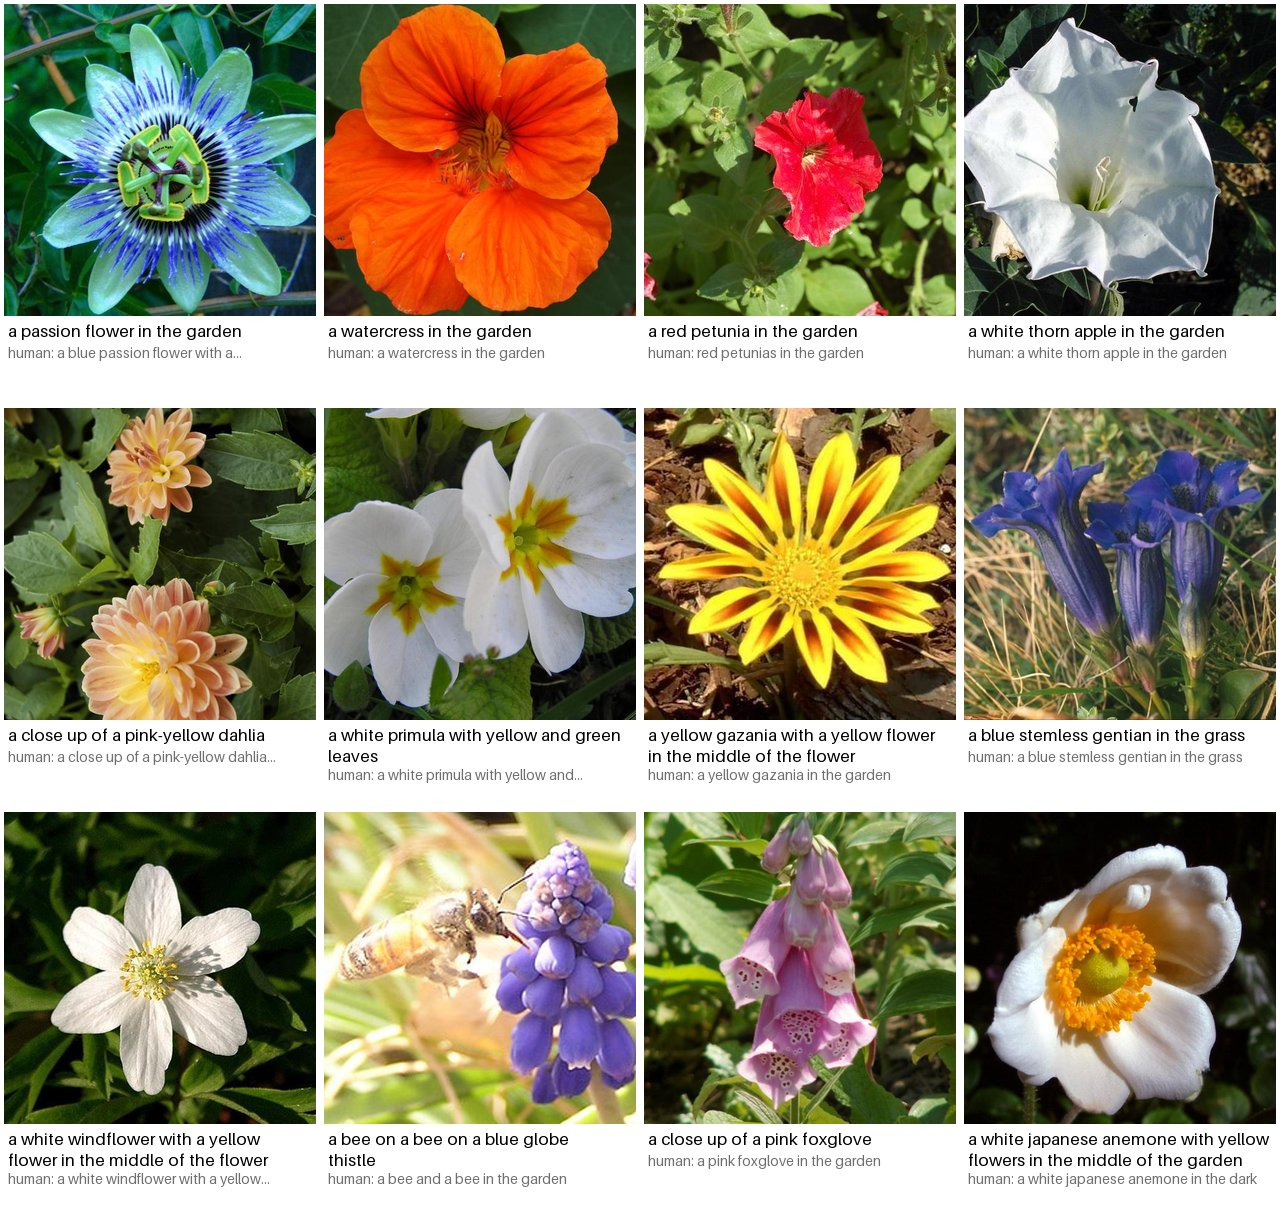
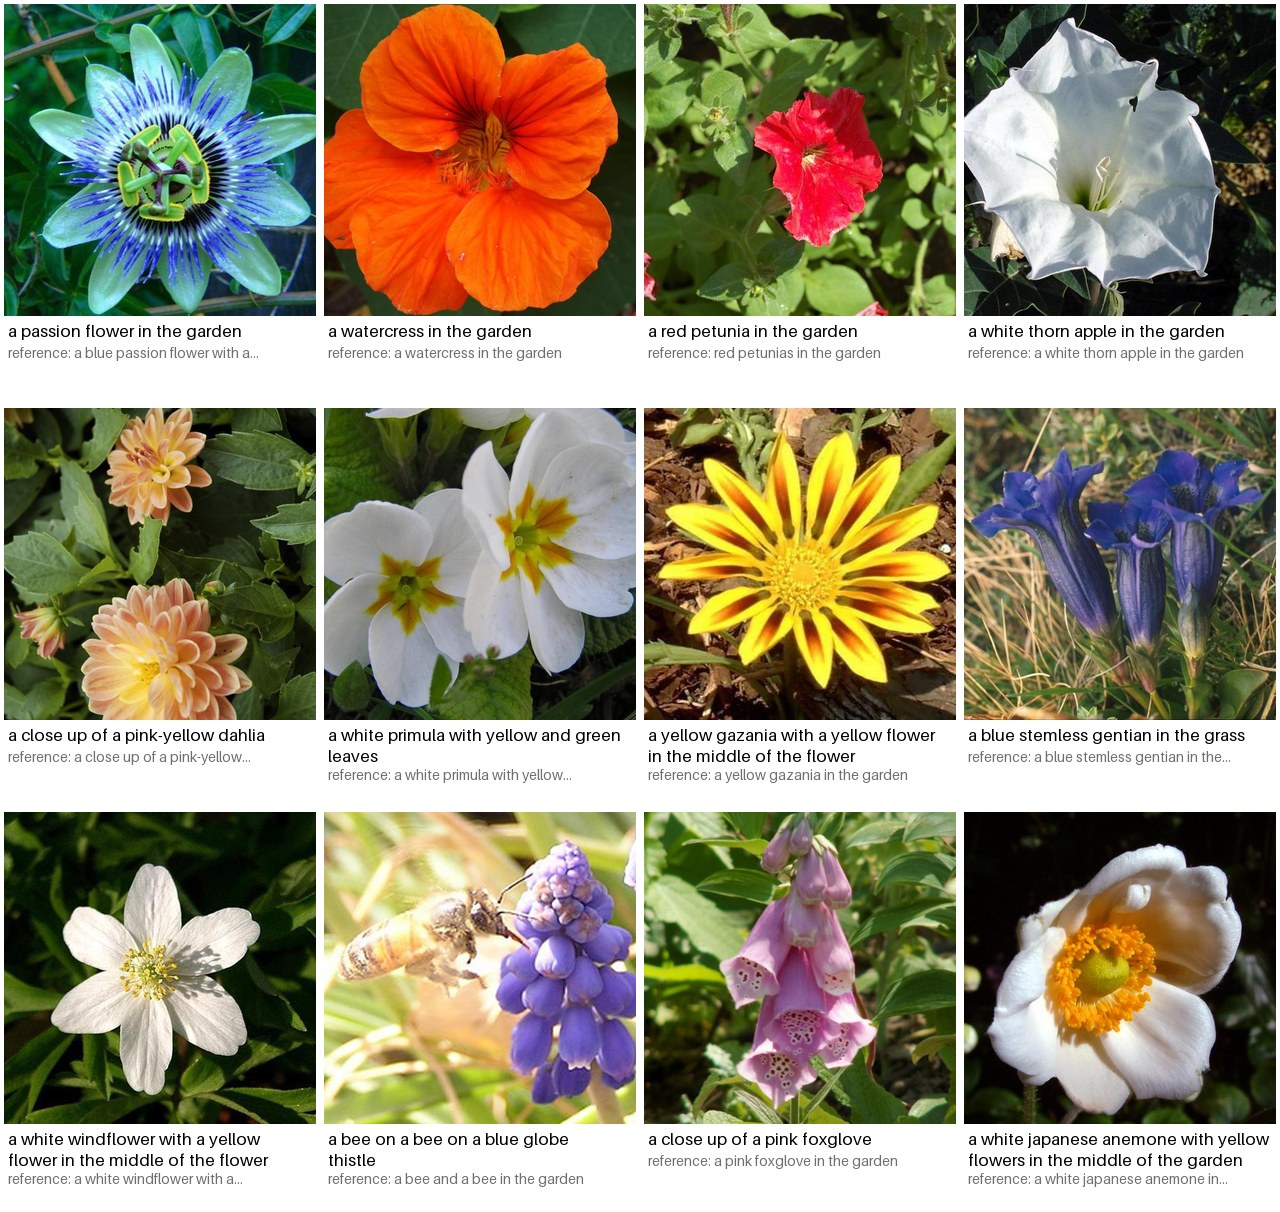
Show real input/output examples of the trained models
Add cap-evaluate --examples: a Markdown table of test images (thumbnail,
model caption, reference caption, exact match), spread evenly over the
split. Generated for the shapes and flowers models and shown in the README.

diff --git a/src/bia_captioner/evaluate.py b/src/bia_captioner/evaluate.py
@@ -3,7 +3,9 @@
     python -m bia_captioner.evaluate --checkpoint checkpoints/run/best.pt --split test
 
 Each image is captioned once (beam search by default) and compared with all
-of its human captions. Optionally writes every prediction to a JSON file.
+of its reference captions. Optionally writes every prediction to a JSON file, a
+captioned image grid (--gallery) and a Markdown table of examples with one
+thumbnail per image (--examples).
 """
 
 from __future__ import annotations
@@ -99,7 +101,7 @@ def save_gallery(
     columns: int = 4,
     tile: int = 320,
 ) -> None:
-    """Grid of images with the model's caption (and one human caption) under each.
+    """Grid of images with the model's caption (and its first reference caption) under each.
 
     Made to be shared: a README, a slide or a post.
     """
@@ -118,10 +120,47 @@ def save_gallery(
         sheet.paste(square.resize((tile - 8, tile - 8), Image.LANCZOS), (x + 4, y + 4))
         lines = textwrap.wrap(prediction, chars)[:3]
         draw.multiline_text((x + 8, y + tile), "\n".join(lines), fill="black", font=font)
-        human = textwrap.shorten("human: " + refs[0], width=int(chars * 1.2), placeholder="...")
-        draw.text((x + 8, y + tile + 18 * len(lines) + 6), human, fill=(110, 110, 110), font=small)
+        reference = textwrap.shorten(
+            "reference: " + refs[0], width=int(chars * 1.2), placeholder="..."
+        )
+        draw.text(
+            (x + 8, y + tile + 18 * len(lines) + 6), reference, fill=(110, 110, 110), font=small
+        )
     path.parent.mkdir(parents=True, exist_ok=True)
     sheet.save(path)
+
+
+def save_examples(
+    images: Sequence[Image.Image],
+    predictions: Sequence[str],
+    references: Sequence[Sequence[str]],
+    directory: Path,
+    title: str = "Examples",
+    thumbnail: int = 160,
+) -> Path:
+    """Write `directory/NN.jpg` thumbnails and a `directory/README.md` table.
+
+    One row per image: the image, the model's caption, the dataset's first
+    reference caption and whether the model matched one of the references word
+    for word.
+    """
+    directory.mkdir(parents=True, exist_ok=True)
+    rows = [
+        "| image | model caption | reference caption | exact |",
+        "|:---:|---|---|:---:|",
+    ]
+    for i, (image, prediction, refs) in enumerate(zip(images, predictions, references)):
+        name = f"{i:02d}.jpg"
+        side = min(image.size)  # centre square crop, like the gallery
+        left, top = (image.width - side) // 2, (image.height - side) // 2
+        square = image.convert("RGB").crop((left, top, left + side, top + side))
+        square.resize((thumbnail, thumbnail), Image.LANCZOS).save(directory / name, quality=90)
+        exact = "yes" if exact_match([prediction], [refs]) == 1.0 else "no"
+        cells = [f'<img src="{name}" width="{thumbnail}">', prediction, refs[0], exact]
+        rows.append("| " + " | ".join(c.replace("|", "\\|") for c in cells) + " |")
+    path = directory / "README.md"
+    path.write_text(f"# {title}\n\n" + "\n".join(rows) + "\n")
+    return path
 
 
 def build_parser() -> argparse.ArgumentParser:
@@ -137,6 +176,11 @@ def build_parser() -> argparse.ArgumentParser:
     p.add_argument("--output", type=Path, default=None, help="write scores + predictions (JSON)")
     p.add_argument("--gallery", type=Path, default=None, help="save a captioned image grid (PNG)")
     p.add_argument("--gallery-size", type=int, default=12, help="images in the gallery")
+    p.add_argument(
+        "--examples", type=Path, default=None,
+        help="write a Markdown table of examples (thumbnail, model and reference caption) to this folder",
+    )  # fmt: skip
+    p.add_argument("--examples-size", type=int, default=8, help="images in the examples table")
     p.add_argument(
         "--shuffle-images", action="store_true",
         help="sanity check: caption each image from another image's pixels (scores must drop)",
@@ -191,6 +235,16 @@ def run(argv: Sequence[str] | None = None, dataset_loader=None) -> dict[str, flo
             args.gallery,
         )
         logger.info("wrote %s", args.gallery)
+    if args.examples is not None:
+        picks = spread_indices(len(dataset), args.examples_size)
+        path = save_examples(
+            [dataset.image(i) for i in picks],
+            [predictions[i] for i in picks],
+            [references[i] for i in picks],
+            args.examples,
+            title=f"{data_config.dataset_id}: {args.split} examples",
+        )
+        logger.info("wrote %s", path)
     return scores
 
 

diff --git a/notebooks/build_notebook.py b/notebooks/build_notebook.py
@@ -414,18 +414,22 @@ plt.show()
 """)
 
 md("""
-### 7.2 BLEU on the test split, and a shareable gallery
+### 7.2 BLEU on the test split, a shareable gallery and an examples table
 
 The test split was never used for training or model selection. Beam size 3.
-`gallery.png` shows test photos with the model's captions (and one human
-caption in grey): ready for a README or a post.
+`gallery.png` shows test photos with the model's captions (and the reference
+caption in grey): ready for a README or a post. `examples/README.md` is a
+table of real inputs and outputs (thumbnail, model caption, reference caption,
+exact match), ready to commit to GitHub. Both use test images spread evenly
+over the split, not hand-picked ones.
 """)
 code("""
 from bia_captioner import evaluate
 
 test_args = ["--checkpoint", str(OUTPUT_DIR / T.BEST_CHECKPOINT), "--split", "test",
              "--beam-size", "3", "--output", str(OUTPUT_DIR / "test_predictions.json"),
-             "--gallery", str(OUTPUT_DIR / "gallery.png")]
+             "--gallery", str(OUTPUT_DIR / "gallery.png"),
+             "--examples", str(OUTPUT_DIR / "examples")]
 if SMOKE_TEST:
     test_args += ["--limit", "16"]
 test_scores = evaluate.run(test_args)
@@ -433,14 +437,15 @@ test_scores = evaluate.run(test_args)
 from IPython.display import Image as ShowImage, display
 
 display(ShowImage(filename=str(OUTPUT_DIR / "gallery.png")))  # ready to share
+print((OUTPUT_DIR / "examples" / "README.md").read_text())
 """)
 
 # ---------------------------------------------------------------------------
 md("""
 ## 8. Download the trained model
 
-Zips `best.pt`, the tokenizer, the metrics and the test predictions
-(`last.pt` is left out: it is only needed to resume). Use it with the repo:
+Zips `best.pt`, the tokenizer, the metrics, the test predictions, the
+gallery and the examples table (`last.pt` is left out: it is only needed to resume). Use it with the repo:
 
 ```bash
 unzip bia-captioner-run.zip -d checkpoints/run
@@ -458,6 +463,8 @@ with tempfile.TemporaryDirectory() as tmp:
         if (OUTPUT_DIR / name).exists():
             shutil.copy(OUTPUT_DIR / name, bundle / name)
     shutil.copytree(OUTPUT_DIR / "tokenizer", bundle / "tokenizer")
+    if (OUTPUT_DIR / "examples").exists():
+        shutil.copytree(OUTPUT_DIR / "examples", bundle / "examples")
     archive = shutil.make_archive(str(OUTPUT_DIR.parent / "bia-captioner-run"), "zip", bundle)
 print("created", archive)
 

diff --git a/tests/test_generate.py b/tests/test_generate.py
@@ -143,6 +143,37 @@ def test_evaluate_writes_a_gallery(tmp_path: Path) -> None:
     assert image.size[0] == 4 * 320 and image.size[1] > 320  # one row of 4 tiles + text
 
 
+def test_evaluate_writes_an_examples_table(tmp_path: Path) -> None:
+    path, _ = write_checkpoint(tmp_path / "run")
+    rows = [{"image": Image.new("RGB", (60, 40), c), "original_alt_text": ["a dog | runs"]}
+            for c in ("white", "black", "red")]  # fmt: skip
+    examples = tmp_path / "examples"
+    evaluate.run(
+        ["--checkpoint", str(path), "--device", "cpu", "--num-workers", "0", "--beam-size", "1",
+         "--examples", str(examples), "--examples-size", "2"],
+        dataset_loader=lambda *a, **k: FakeSplit(rows),
+    )  # fmt: skip
+    table = (examples / "README.md").read_text().splitlines()
+    assert table[0].startswith("# ")
+    body = [line for line in table if line.startswith("| <img")]
+    assert len(body) == 2  # first and last image of the split
+    assert '<img src="00.jpg"' in body[0] and '<img src="01.jpg"' in body[1]
+    assert "a dog \\| runs" in body[0]  # a "|" in a caption must not break the table
+    assert body[0].endswith("| no |") or body[0].endswith("| yes |")
+    assert Image.open(examples / "00.jpg").size == (160, 160)
+
+
+def test_save_examples_marks_exact_matches(tmp_path: Path) -> None:
+    from bia_captioner.evaluate import save_examples
+
+    images = [Image.new("RGB", (32, 32), "red"), Image.new("RGB", (32, 32), "blue")]
+    path = save_examples(
+        images, ["a red square", "a red square"], [["a red square"], ["a blue square"]], tmp_path
+    )
+    rows = [line for line in path.read_text().splitlines() if line.startswith("| <img")]
+    assert rows[0].endswith("| yes |") and rows[1].endswith("| no |")
+
+
 def test_shuffled_order_never_keeps_an_image_and_is_fixed() -> None:
     from bia_captioner.evaluate import shuffled_order
 

diff --git a/README.md b/README.md
@@ -96,11 +96,55 @@ For real-world scale (Conceptual Captions 3M / 12M, nocaps, TextCaps,
 VizWiz) and for using any other Hugging Face dataset, see
 [docs/datasets.md](docs/datasets.md).
 
+## Real examples: input → output
+
+Real outputs of the two models trained on a laptop CPU, on **test images
+they never saw**. The images are spread evenly over the test split (not
+hand-picked); `cap-evaluate --examples` regenerates these tables
+([docs/inference.md](docs/inference.md#evaluate-on-the-test-split)).
+
+**Synthetic shapes**: BIA-ViT encoder trained from scratch, 8 epochs (~2 h).
+88% of all 500 test captions are exactly right; most of the remaining errors
+are a small circle called a square.
+
+| image | model caption | reference caption | exact |
+|:---:|---|---|:---:|
+| <img src="docs/examples/shapes/00.jpg" width="110"> | a big yellow circle on the left and a small red circle on the right | a big yellow circle on the left and a small red circle on the right | yes |
+| <img src="docs/examples/shapes/01.jpg" width="110"> | a big green triangle | a big green triangle | yes |
+| <img src="docs/examples/shapes/02.jpg" width="110"> | a small blue circle | a small blue circle | yes |
+| <img src="docs/examples/shapes/03.jpg" width="110"> | a small green triangle | a small green triangle | yes |
+| <img src="docs/examples/shapes/04.jpg" width="110"> | a small yellow triangle | a small yellow triangle | yes |
+| <img src="docs/examples/shapes/05.jpg" width="110"> | a small yellow triangle | a small yellow triangle | yes |
+| <img src="docs/examples/shapes/06.jpg" width="110"> | a big blue square on the left and a big red circle on the right | a big blue square on the left and a big red circle on the right | yes |
+| <img src="docs/examples/shapes/07.jpg" width="110"> | a big red circle | a big red circle | yes |
+| <img src="docs/examples/shapes/08.jpg" width="110"> | a small blue square | a small blue square | yes |
+| <img src="docs/examples/shapes/09.jpg" width="110"> | a big red circle | a big red circle | yes |
+
+**Flower photos**: frozen ImageNet ResNet-50 + Transformer decoder, 4 epochs
+(~75 min), test BLEU-4 47.7. The model names the same species as the
+reference in 9 of the 10 photos below (it calls the yellow nasturtium a
+hibiscus); the other differences are colours and backgrounds ("in the
+garden"). The reference captions were written by the BLIP model and are not
+always right themselves (the dataset calls nasturtiums "watercress").
+
+| image | model caption | reference caption | exact |
+|:---:|---|---|:---:|
+| <img src="docs/examples/flowers/00.jpg" width="110"> | a passion flower in the garden | a blue passion flower with a yellow flower in the middle of the flower | no |
+| <img src="docs/examples/flowers/01.jpg" width="110"> | a close up of a yellow hibiscus | a close up of a yellow watercress | no |
+| <img src="docs/examples/flowers/02.jpg" width="110"> | a pink hibiscus in the middle of the garden | a red hibiscus in the dark night | no |
+| <img src="docs/examples/flowers/03.jpg" width="110"> | a red geranium in the middle of the garden | a bright orange geranium with a green background | no |
+| <img src="docs/examples/flowers/04.jpg" width="110"> | a pink azalea in the garden | a pink azalea in the garden | yes |
+| <img src="docs/examples/flowers/05.jpg" width="110"> | a yellow buttercup in the garden | a yellow buttercup in the grass | no |
+| <img src="docs/examples/flowers/06.jpg" width="110"> | a white magnolia in the middle of the garden | a pink magnolia in the sky | no |
+| <img src="docs/examples/flowers/07.jpg" width="110"> | a close up of a cautleya spicata in the garden | a close up of a cautleya spicata in the garden | yes |
+| <img src="docs/examples/flowers/08.jpg" width="110"> | a pink japanese anemone with yellow and green leaves | a pink japanese anemone with yellow and white petals | no |
+| <img src="docs/examples/flowers/09.jpg" width="110"> | a white japanese anemone with yellow flowers in the middle of the garden | a white japanese anemone in the dark | no |
+
 ## Verified so far
 
 Everything below was run on a laptop CPU (no GPU), see [docs/testing.md](docs/testing.md):
 
-- **143 tests (96% line coverage)**, including the standard neural-network sanity checks:
+- **145 tests (96% line coverage)**, including the standard neural-network sanity checks:
   initial loss = ln(vocab), numerical gradient check, activations stay scaled
   through depth, every parameter gets a gradient and is updated, no
   information leaks from future tokens or between samples of a batch, padding

diff --git a/docs/examples/flowers/README.md b/docs/examples/flowers/README.md
@@ -1,0 +1,14 @@
+# pranked03/flowers-blip-captions: test examples
+
+| image | model caption | reference caption | exact |
+|:---:|---|---|:---:|
+| <img src="00.jpg" width="160"> | a passion flower in the garden | a blue passion flower with a yellow flower in the middle of the flower | no |
+| <img src="01.jpg" width="160"> | a close up of a yellow hibiscus | a close up of a yellow watercress | no |
+| <img src="02.jpg" width="160"> | a pink hibiscus in the middle of the garden | a red hibiscus in the dark night | no |
+| <img src="03.jpg" width="160"> | a red geranium in the middle of the garden | a bright orange geranium with a green background | no |
+| <img src="04.jpg" width="160"> | a pink azalea in the garden | a pink azalea in the garden | yes |
+| <img src="05.jpg" width="160"> | a yellow buttercup in the garden | a yellow buttercup in the grass | no |
+| <img src="06.jpg" width="160"> | a white magnolia in the middle of the garden | a pink magnolia in the sky | no |
+| <img src="07.jpg" width="160"> | a close up of a cautleya spicata in the garden | a close up of a cautleya spicata in the garden | yes |
+| <img src="08.jpg" width="160"> | a pink japanese anemone with yellow and green leaves | a pink japanese anemone with yellow and white petals | no |
+| <img src="09.jpg" width="160"> | a white japanese anemone with yellow flowers in the middle of the garden | a white japanese anemone in the dark | no |

diff --git a/docs/examples/shapes/README.md b/docs/examples/shapes/README.md
@@ -1,0 +1,14 @@
+# synthetic: test examples
+
+| image | model caption | reference caption | exact |
+|:---:|---|---|:---:|
+| <img src="00.jpg" width="160"> | a big yellow circle on the left and a small red circle on the right | a big yellow circle on the left and a small red circle on the right | yes |
+| <img src="01.jpg" width="160"> | a big green triangle | a big green triangle | yes |
+| <img src="02.jpg" width="160"> | a small blue circle | a small blue circle | yes |
+| <img src="03.jpg" width="160"> | a small green triangle | a small green triangle | yes |
+| <img src="04.jpg" width="160"> | a small yellow triangle | a small yellow triangle | yes |
+| <img src="05.jpg" width="160"> | a small yellow triangle | a small yellow triangle | yes |
+| <img src="06.jpg" width="160"> | a big blue square on the left and a big red circle on the right | a big blue square on the left and a big red circle on the right | yes |
+| <img src="07.jpg" width="160"> | a big red circle | a big red circle | yes |
+| <img src="08.jpg" width="160"> | a small blue square | a small blue square | yes |
+| <img src="09.jpg" width="160"> | a big red circle | a big red circle | yes |

diff --git a/docs/inference.md b/docs/inference.md
@@ -52,6 +52,22 @@ all human captions of each image. `--output` saves the scores and
 every prediction next to its references. `--limit N` scores only the first N
 images, `--beam-size 1` is greedy and much faster.
 
+Two ways to *show* the results, both using images spread evenly over the
+split (not hand-picked):
+
+```bash
+cap-evaluate --checkpoint checkpoints/run/best.pt --split test \
+             --gallery gallery.png --gallery-size 12 \
+             --examples examples/ --examples-size 10
+```
+
+- `--gallery` saves one image grid with the model's caption (black) and a
+  reference caption (grey) under each photo: for a slide or a post.
+- `--examples` writes `examples/README.md`, a table with a thumbnail, the
+  model's caption, the reference caption and whether they match exactly, plus
+  the thumbnails: GitHub renders it as a page. The tables in
+  [docs/examples](examples) were made this way.
+
 ## Web demo
 
 ```bash

diff --git a/docs/testing.md b/docs/testing.md
@@ -113,6 +113,8 @@ prior (every caption starts "a small/big ... on the left and ...").
 
 ![Captions written by the model for unseen synthetic test images](images/shapes_gallery.jpg)
 
+The same test images as a table of inputs and outputs: [examples/shapes](examples/shapes/README.md).
+
 Colors, sizes, counts and left / right are almost always right. Of the 60
 wrong captions, 58 differ by one shape word, mostly a small circle called a
 square (47 times): at 64 px with 8 px patches a small circle is a few
@@ -159,6 +161,8 @@ The test photos with their generated captions (`--gallery`, picks spread over
 the whole split):
 
 ![Flowers test gallery](images/flowers_gallery.jpg)
+
+As a table of inputs and outputs: [examples/flowers](examples/flowers/README.md).
 
 The model names the species (petunia, thorn apple, dahlia, primula, gazania,
 gentian, foxglove, ...) and notices details such as a bee on the flower; it
